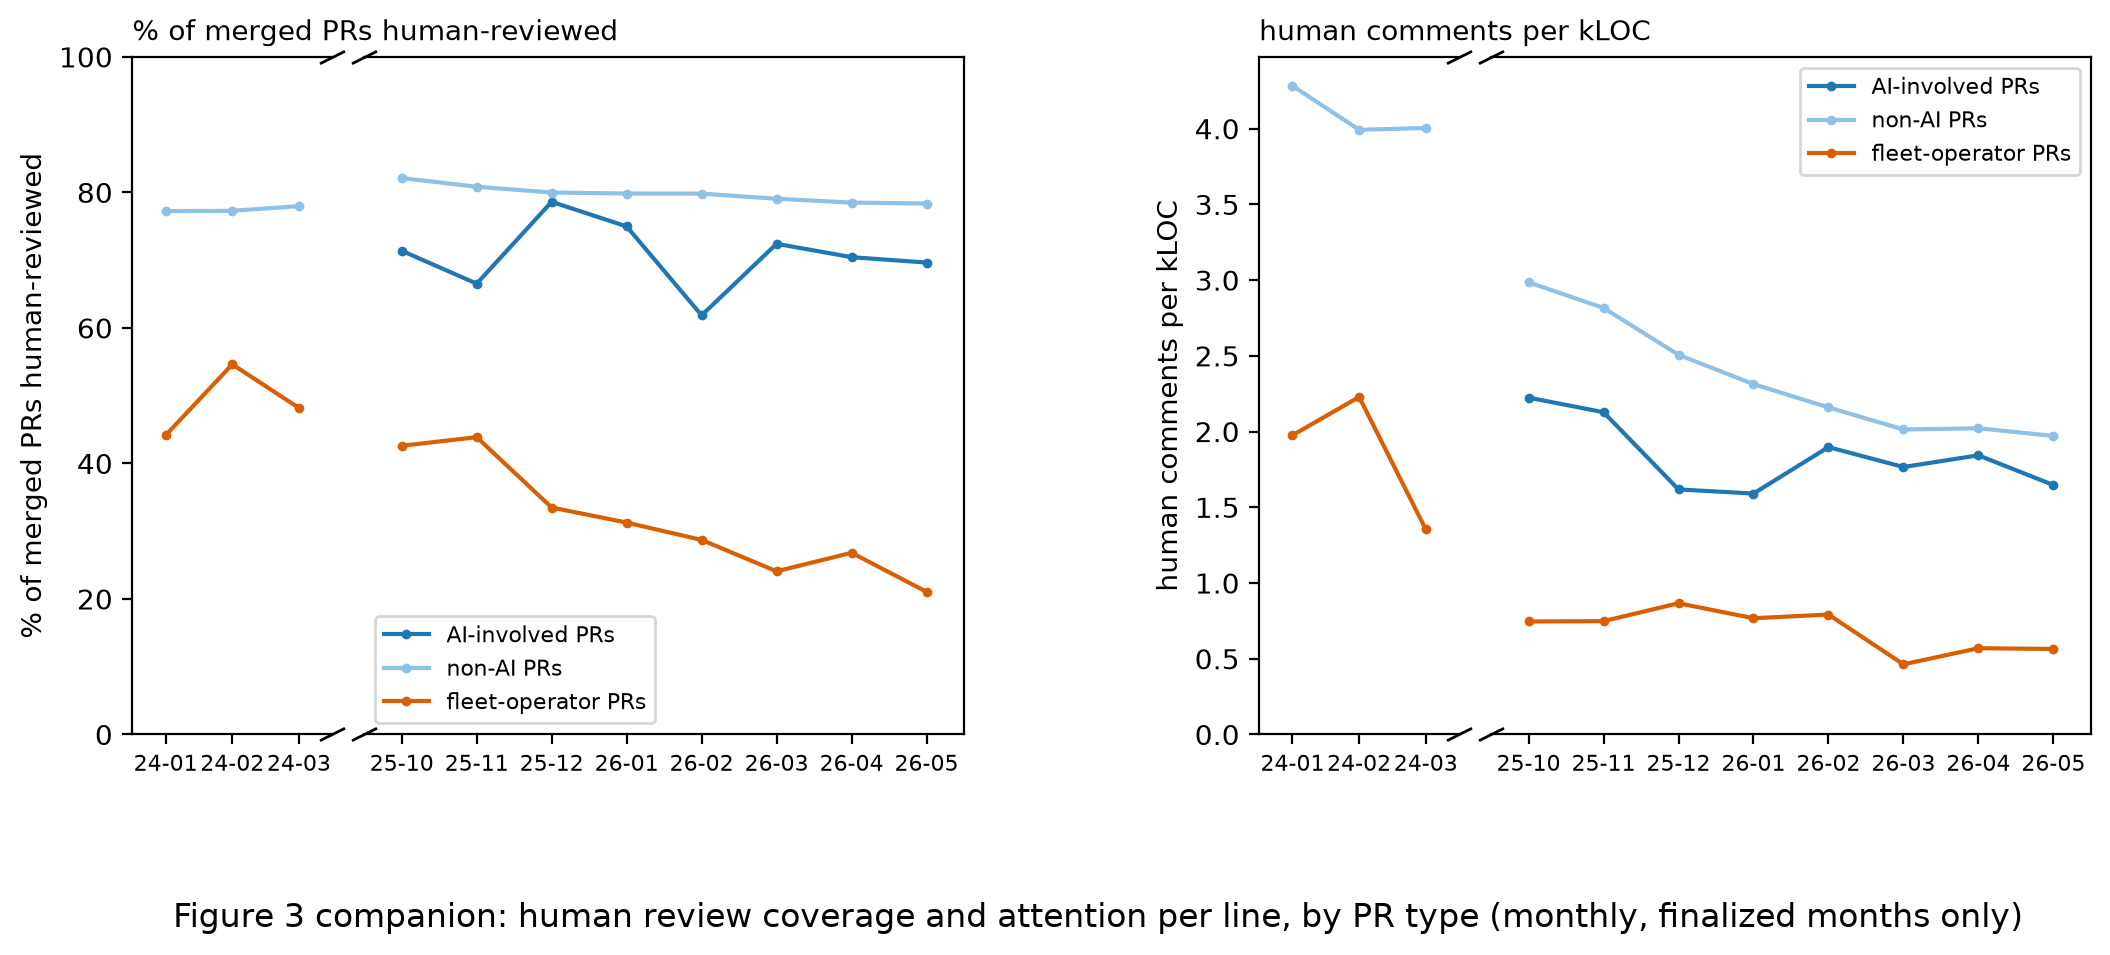
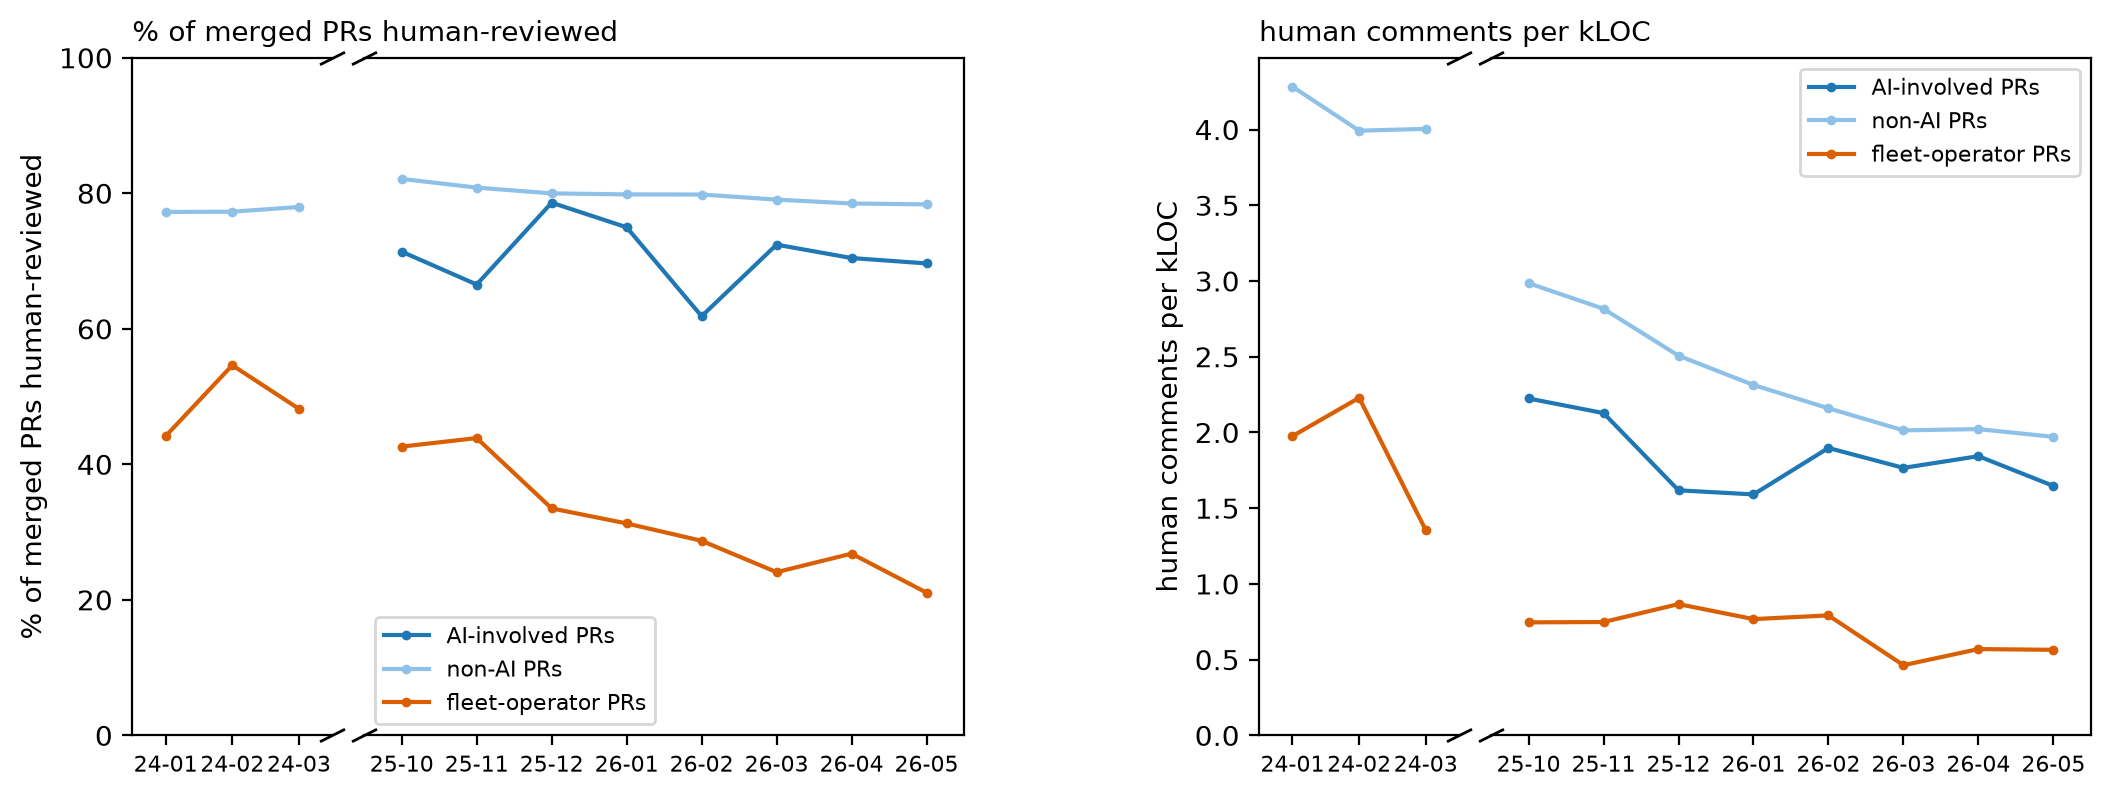
Figures 2 and 3 comp audits: drop in-figure captions
The paper supplies the captions in text, so the rendered PNGs no longer
carry a suptitle. Data, series, layout, and axis styling are unchanged.

diff --git a/scripts/plot_fig3_comp_audits.py b/scripts/plot_fig3_comp_audits.py
@@ -42,9 +42,6 @@ def main() -> None:
     mix = review_mix(by="ai", fleet_slice=True, granularity="month")
     att = attention_by_ai(fleet_slice=True, granularity="month")
     fig = plt.figure(figsize=(11, 4.4))
-    fig.suptitle("Figure 3 companion: human review coverage and attention "
-                 "per line, by PR type (monthly, finalized months only)",
-                 fontsize=12, y=-0.08)
     subfigs = fig.subfigures(1, 2, wspace=0.05)
 
     axl, axr = panel(subfigs.flat[0], "% of merged PRs human-reviewed",

diff --git a/scripts/plot_fig2_comp_audits.py b/scripts/plot_fig2_comp_audits.py
@@ -25,9 +25,6 @@ def main() -> None:
     rows = (len(cohorts) + 1) // 2
     fig, axes = plt.subplots(rows, 2, figsize=(9, 3.75 * rows),
                              squeeze=False)
-    fig.suptitle("Figure 2: LOC per contributor around first AI adoption, "
-                 "by adoption month (balanced cohorts, finalized months "
-                 "only)", fontsize=12, y=-0.03)
     for ax, (t0_mon, c) in zip(axes.flat, cohorts):
         offs = sorted(c["offsets"])
         for key, color, ls, label in LOC_SERIES:
